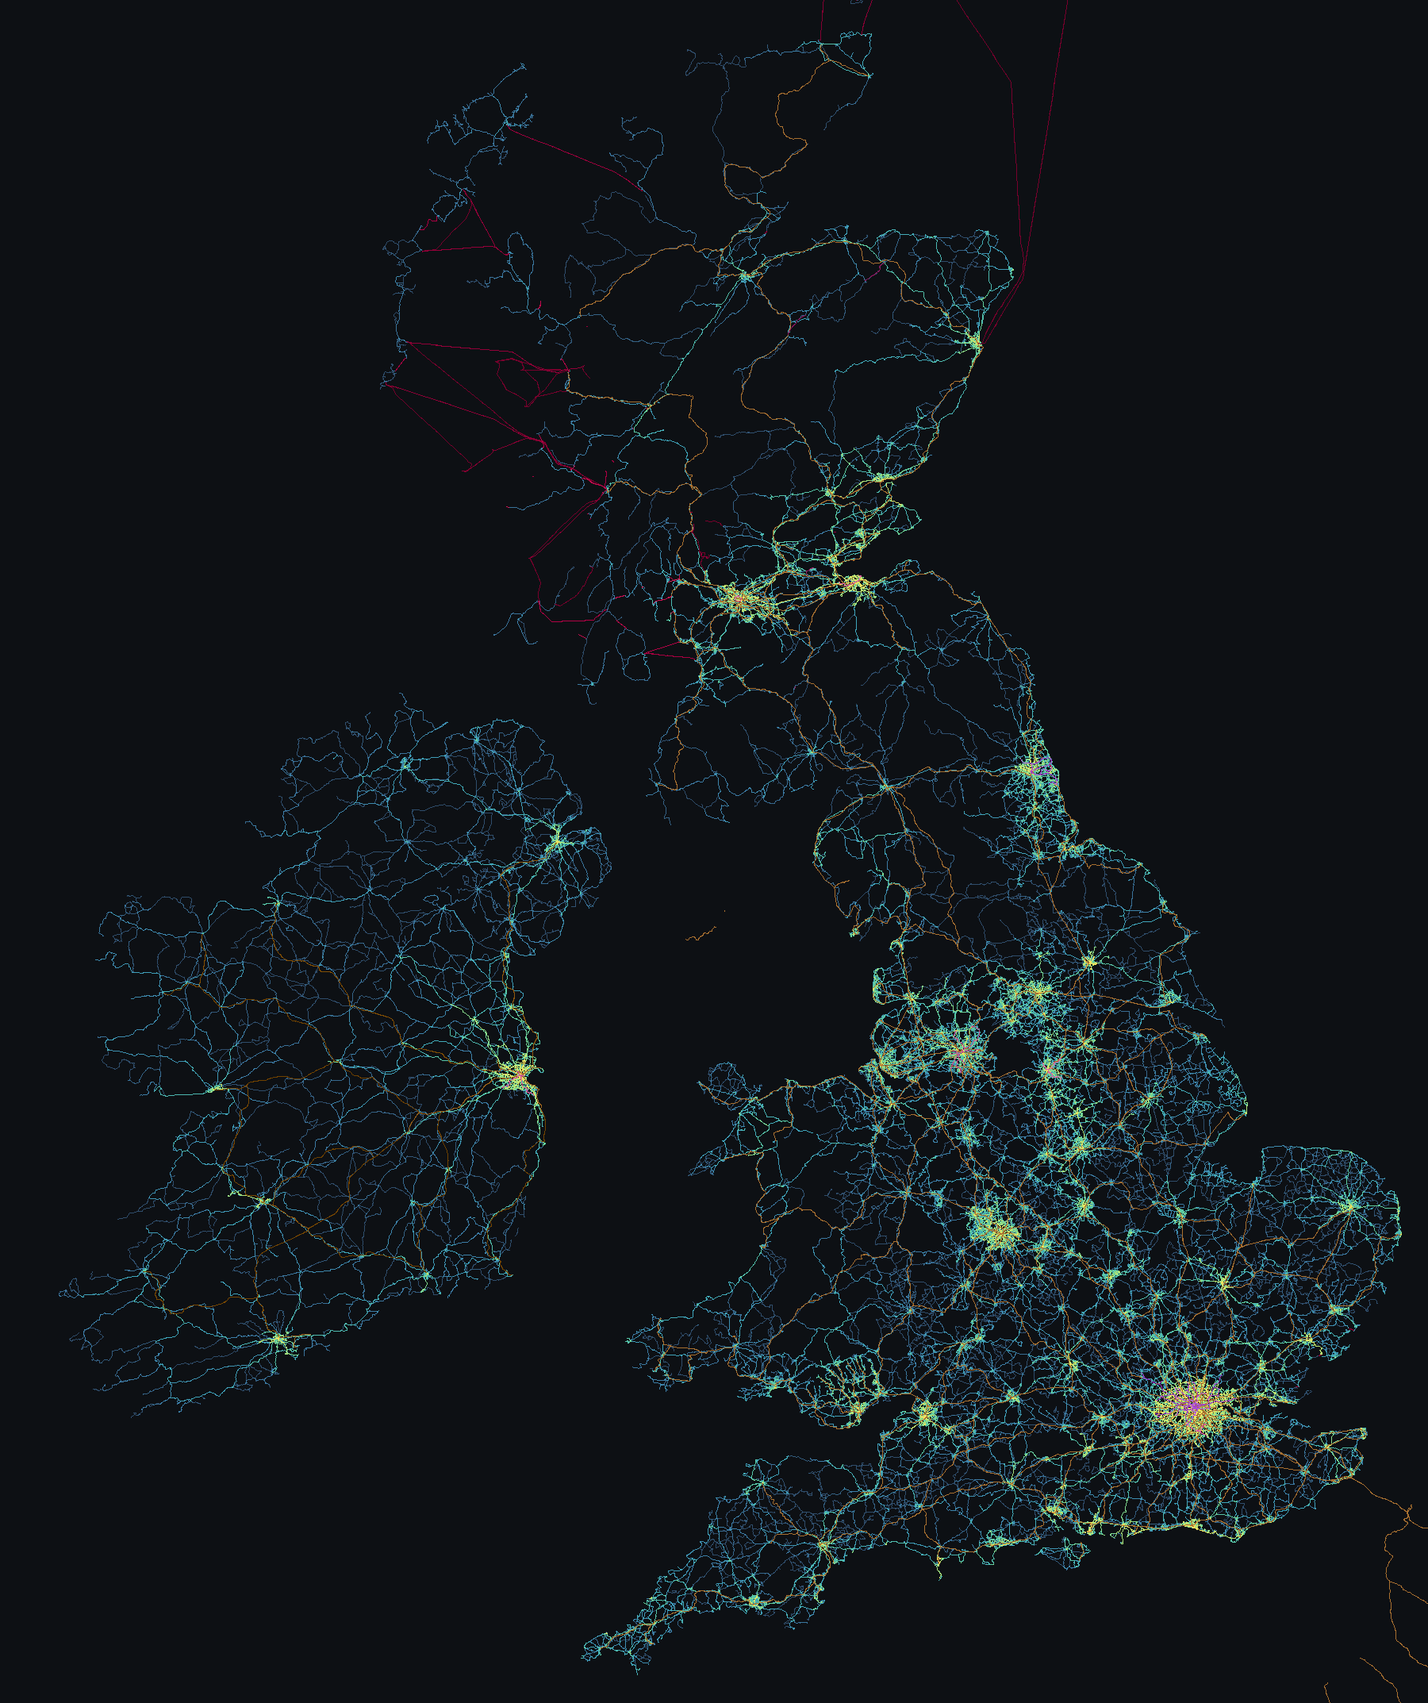
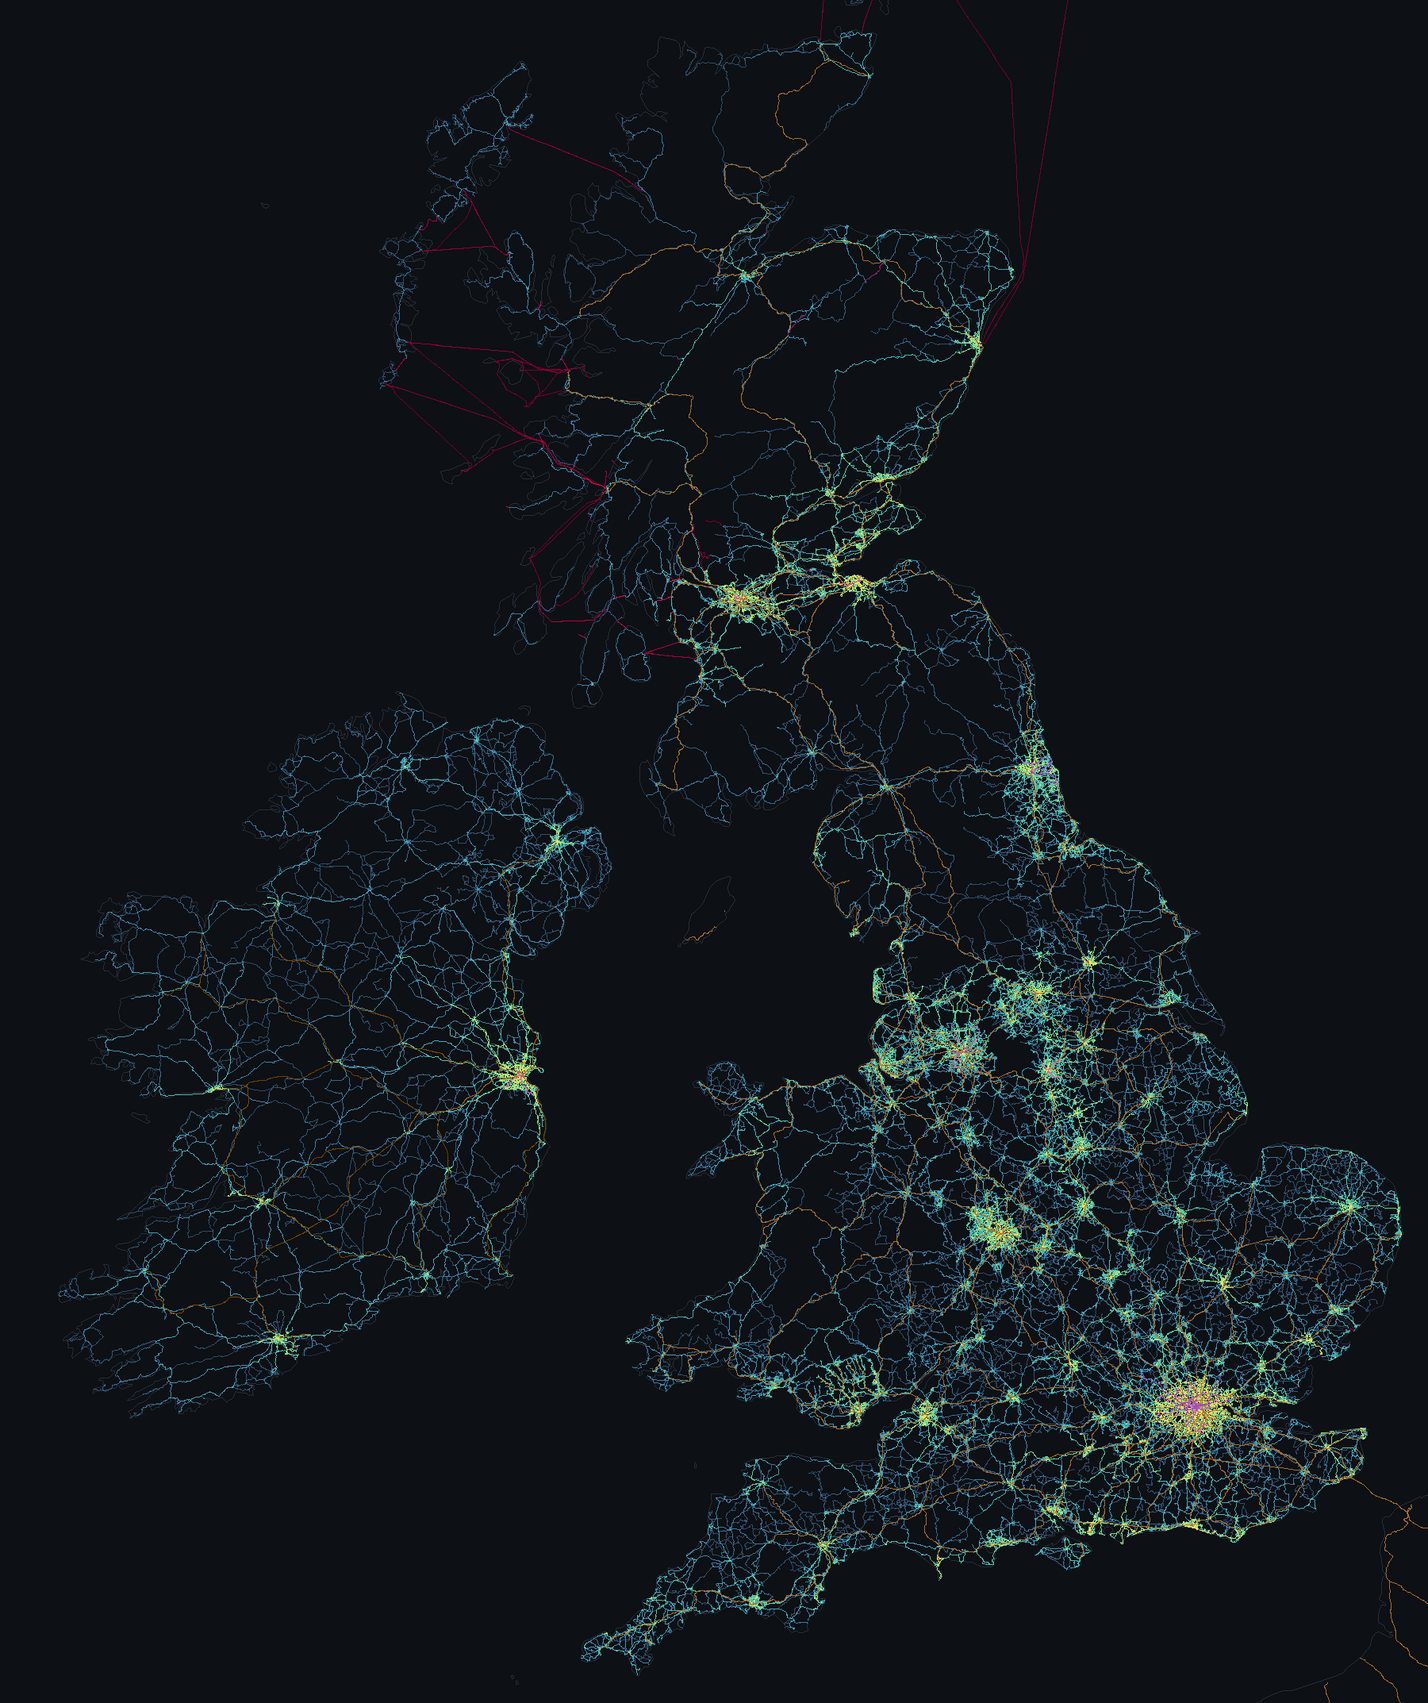
feat(docs): draw the README map on a coastline
Nothing in the picture said where the land was except where the buses
were, so a coast with no service on it — most of Sutherland, most of
Kerry — was not drawn at all, and Cornwall read as ink rather than as a
place.

`draw` takes an `underlay` of longitude/latitude polylines now and
paints them below every feature. Weight 1 against the quietest road's 2,
so a coastline can never take a pixel from a road; features start at two
rather than one for that reason. It is passed in rather than loaded,
because `coverage` reads archives and nothing else, which is what lets
it run wherever an archive does.

`scripts/coastline.py` clips Natural Earth's 1:10m coastline to
`map.toml`'s roam box and writes `docs/coastline.json` — 69 runs, 9,339
points, 144 KB at three decimal places, which is about 70 m against a
pixel that is about 480 m. Clipped to the roam box rather than to the
picture's own frame, so the frame moves without the coastline being
rebuilt. The 10 MB source is cached in `RAW` like every other download
this project makes and the clipped file is committed, so a redraw makes
no request at all and works in an offline clone.

The viewer's own CARTO backdrop was the other option and the numbers
were not what ruled it out: a backdrop only has to match the output
resolution rather than the vector zoom, so 1800 pixels over 13 degrees
is z8 and 120 tiles rather than z11 and 6,675. What ruled it out is that
a raster backdrop puts a licence condition on a PNG that travels without
[…]

diff --git a/scripts/coastline.py b/scripts/coastline.py
@@ -1,0 +1,128 @@
+#!/usr/bin/env python3
+"""Clip the Natural Earth coastline to these islands, for `readme_map.py` to draw.
+
+    python scripts/coastline.py            # docs/coastline.json
+    python scripts/coastline.py --force    # re-fetch the source as well
+
+Two levels of not asking twice. The 10 MB global source is downloaded once into
+`RAW` and reused from there like every other download this project makes, and the
+clipped result is committed, so a redraw of the README map makes no request at
+all and works in an offline clone. Only moving the window or the source needs
+either of them again -- and the window can move freely, because the clip is to
+`map.toml`'s roam box rather than to the picture's own frame.
+
+Natural Earth is public domain, so nothing here owes an attribution. That is most
+of why it is the coastline drawn rather than a basemap's: a raster backdrop from
+a tile service would put a licence condition on a PNG that travels without the
+page it was made for.
+
+1:10m rather than 1:50m because the output is about 480 m to the pixel and 1:50m
+is coarser than that -- the Firth of Clyde closes up and Strangford Lough goes.
+"""
+
+from __future__ import annotations
+
+import argparse
+import json
+import urllib.request
+from pathlib import Path
+
+from wayfare import config, palette
+
+ROOT = Path(__file__).resolve().parent.parent
+OUT = ROOT / "docs" / "coastline.json"
+
+SOURCE = (
+    "https://raw.githubusercontent.com/nvkelso/natural-earth-vector/"
+    "master/geojson/ne_10m_coastline.geojson"
+)
+CACHED = "ne_10m_coastline.geojson"
+
+# Three decimal places is about 70 m of longitude at this latitude, against a
+# pixel that is about 480 m at the width the README map is drawn. Rounding is
+# what takes the file from 162 KB to 144 KB, and consecutive points that collapse
+# onto each other afterwards are dropped rather than drawn as a zero-length line.
+PLACES = 3
+
+
+def fetch(force: bool = False) -> Path:
+    """The global source, downloaded once into RAW and reused after that."""
+    config.RAW.mkdir(parents=True, exist_ok=True)
+    dest = config.RAW / CACHED
+    if dest.exists() and not force:
+        print(f"already have {dest} ({dest.stat().st_size / 1e6:.1f} MB)")
+        return dest
+    print(f"fetching {SOURCE}")
+    with urllib.request.urlopen(SOURCE, timeout=120) as response:  # noqa: S310
+        dest.write_bytes(response.read())
+    print(f"wrote {dest} ({dest.stat().st_size / 1e6:.1f} MB)")
+    return dest
+
+
+def clip(source: Path, box: tuple[float, float, float, float]) -> list[list[list[float]]]:
+    """Every run of coastline that touches the box, as rounded lon/lat pairs.
+
+    A segment is kept when either end is inside, so a coast entering the box is
+    drawn up to the edge rather than starting at it. Whole features are not kept:
+    the lines here are continents, and the one carrying Kerry also carries
+    Portugal.
+    """
+    west, south, east, north = box
+    data = json.loads(source.read_text())
+
+    def inside(point: list[float]) -> bool:
+        return west <= point[0] <= east and south <= point[1] <= north
+
+    runs: list[list[list[float]]] = []
+    for feature in data["features"]:
+        geometry = feature["geometry"]
+        lines = (
+            [geometry["coordinates"]]
+            if geometry["type"] == "LineString"
+            else geometry["coordinates"]
+        )
+        for line in lines:
+            run: list[list[float]] = []
+            for a, b in zip(line, line[1:], strict=False):
+                if inside(a) or inside(b):
+                    if not run:
+                        run.append(a)
+                    run.append(b)
+                elif run:
+                    runs.append(run)
+                    run = []
+            if len(run) > 1:
+                runs.append(run)
+
+    out: list[list[list[float]]] = []
+    for run in runs:
+        rounded: list[list[float]] = []
+        for x, y in run:
+            point = [round(x, PLACES), round(y, PLACES)]
+            if not rounded or rounded[-1] != point:
+                rounded.append(point)
+        if len(rounded) > 1:
+            out.append(rounded)
+    return out
+
+
+def main() -> None:
+    ap = argparse.ArgumentParser(description=__doc__)
+    ap.add_argument(
+        "--force", action="store_true", help="re-fetch the source before clipping"
+    )
+    ap.add_argument("--out", type=Path, default=OUT, help="the .json to write")
+    args = ap.parse_args()
+
+    box = palette.load().roam
+    runs = clip(fetch(args.force), box)
+    args.out.parent.mkdir(parents=True, exist_ok=True)
+    args.out.write_text(json.dumps(runs, separators=(",", ":")) + "\n")
+    points = sum(len(r) for r in runs)
+    size = args.out.stat().st_size / 1024
+    shown = args.out.relative_to(ROOT) if args.out.is_relative_to(ROOT) else args.out
+    print(f"{shown}: {len(runs)} runs, {points} points, {size:.0f} KB over {box}")
+
+
+if __name__ == "__main__":
+    main()

diff --git a/wayfare/coverage.py b/wayfare/coverage.py
@@ -565,13 +565,28 @@ def _layer_ranks() -> dict[str, int]:
 # this does not know, each with 63 levels of trip count under it, which is finer
 # than a six-step ramp can show.
 #
-# Every drawn weight is offset by one, because zero is what an untouched pixel
-# holds and the same channel answers "is anything here at all". Without the offset
-# the quietest road of the bottom layer weighs nothing, and a national render came
-# out 0.2% lit against the greyscale's 5.1% -- the roads were drawn and then
-# counted as background.
+# Every drawn weight is offset, because zero is what an untouched pixel holds and
+# the same channel answers "is anything here at all". Without the offset the
+# quietest road of the bottom layer weighs nothing, and a national render came out
+# 0.2% lit against the greyscale's 5.1% -- the roads were drawn and then counted as
+# background.
 _RANK_STEP = 63
-_MIN_WEIGHT = 1
+_MIN_WEIGHT = 2
+
+# Weight 1 is the underlay's, below every feature and above nothing. A coastline
+# is context and must never take a pixel from a road: the quietest road on the
+# bottom layer weighs `_MIN_WEIGHT`, which is why features start at two.
+_UNDERLAY_WEIGHT = 1
+
+# What the underlay is drawn in. Dim enough to read as ground rather than as
+# something running on it -- a coastline in a road's colour is a coastal service
+# nobody operates. Not in `map.toml`: the viewer has no coastline of its own,
+# because its basemap draws one, so this is a colour no other reader shares.
+_COASTLINE: dict[palette.Theme, tuple[int, int, int]] = {
+    "light": (198, 204, 212),
+    "dark": (38, 46, 58),
+}
+_COASTLINE_GREY = (60, 60, 60)
 
 
 def _mercator(lon: float, lat: float) -> tuple[float, float]:
@@ -771,6 +786,7 @@ def draw(
     out: Path,
     width: int = 1400,
     theme: palette.Theme | None = None,
+    underlay: Sequence[Sequence[tuple[float, float]]] | None = None,
 ) -> float:
     """Rasterise one zoom of some archives into a window. Returns the fraction lit.
 
@@ -790,6 +806,13 @@ def draw(
     road ramp by journeys a day, and each non-road mode off its own ramp. Left
     None, this is the flat greyscale that judging a low zoom wants, where a hue
     would say something about a feature that the question is not about.
+
+    `underlay` is longitude/latitude polylines drawn under everything, for a
+    coastline. Without one the only thing saying where the land is, is where the
+    buses are, so Kerry and Cornwall read as ink rather than as places. It is
+    passed in rather than loaded here because this module reads archives and
+    nothing else -- no network, no data files -- which is what lets it run
+    wherever an archive does.
     """
     # One archive is the ordinary diagnostic call and reads better without a list
     # around it, so both spellings are taken rather than one being the only one.
@@ -804,6 +827,22 @@ def draw(
     height = max(1, round(width * (y1 - y0) / (x1 - x0)))
     pixels = bytearray(width * height * _CHANNELS)
     greys = _layer_greys()
+
+    # First, so every feature composites over it: the weight ordering would hold
+    # either way, but drawing ground after the things standing on it is the kind
+    # of ordering that survives until someone changes a weight.
+    if underlay:
+        ink = _COASTLINE[theme] if theme else _COASTLINE_GREY
+        for line in underlay:
+            points = [
+                (
+                    round((mx - x0) / (x1 - x0) * width),
+                    round((my - y0) / (y1 - y0) * height),
+                )
+                for mx, my in (_mercator(lon, lat) for lon, lat in line)
+            ]
+            for (ax, ay), (bx, by) in zip(points, points[1:], strict=False):
+                _stroke(pixels, width, height, ax, ay, bx, by, ink, _UNDERLAY_WEIGHT)
 
     for archive in archives:
         with archive.open("rb") as fh:

diff --git a/tests/test_coverage.py b/tests/test_coverage.py
@@ -410,6 +410,58 @@ def test_a_theme_paints_the_road_ramp_rather_than_a_grey(tmp_path):
     assert busy == {palette.hex_to_rgb(ramp[-1])}
 
 
+def test_an_underlay_is_drawn_beneath_every_feature(tmp_path):
+    """A coastline is context, and must never take a pixel from a road.
+
+    The two are drawn over each other here on purpose: the road runs along the
+    same latitude as the underlay, so every pixel of one is a pixel of the other,
+    and the question is which the picture ends up carrying. Weight is what
+    decides, and the underlay's is below the quietest road's -- which is why
+    features start at two rather than at one.
+    """
+    path = archive(
+        tmp_path / "a.pmtiles",
+        {0: gzip.compress(_tagged_tile(at(-20.0, 0.0), at(20.0, 0.0), {"trips": 7}))},
+    )
+    window = (-40.0, -40.0, 40.0, 40.0)
+    # Wider than the road, so the overlap answers which wins and the overhang
+    # answers whether the underlay was drawn at all. One or the other alone
+    # passes for a `draw` that ignored the underlay entirely.
+    line = [[(-30.0, 0.0), (30.0, 0.0)]]
+
+    out = tmp_path / "both.png"
+    coverage.draw(path, 0, window, out, width=100, theme="dark", underlay=line)
+    _w, _h, both = _rgb(out)
+
+    ink = palette.load()
+    road = palette.hex_to_rgb(ink.road_ramp["dark"][0])
+    coast = coverage._COASTLINE["dark"]
+    drawn = {p for p in both if p != (13, 16, 20)}
+    # The road won every pixel the two share, and the coastline is still drawn
+    # where the road is not -- it runs the width of the window and the road does
+    # not reach the edges.
+    assert road in drawn
+    assert coast in drawn
+
+
+def test_an_underlay_needs_no_archive_to_be_drawn(tmp_path):
+    """The coastline is passed in as longitude and latitude, so it is projected
+    here rather than read out of a tile. Nothing about it comes from an archive."""
+    empty = archive(tmp_path / "empty.pmtiles", {})
+    out = tmp_path / "coast.png"
+    coverage.draw(
+        empty,
+        0,
+        (-40.0, -40.0, 40.0, 40.0),
+        out,
+        width=100,
+        theme="dark",
+        underlay=[[(-30.0, 10.0), (30.0, 10.0)]],
+    )
+    lit, _size = _lit(out, background=(13, 16, 20))
+    assert lit > 50
+
+
 def test_several_archives_composite_into_one_picture(tmp_path):
     """These islands are three archives and the viewer draws them onto one map."""
     west = archive(

diff --git a/scripts/readme_map.py b/scripts/readme_map.py
@@ -19,6 +19,7 @@ composite over each other and report a coverage the archives do not have.
 from __future__ import annotations
 
 import argparse
+import json
 import sys
 from pathlib import Path
 
@@ -26,6 +27,13 @@ from wayfare import config, coverage, palette
 
 ROOT = Path(__file__).resolve().parent.parent
 OUT = ROOT / "docs" / "map.png"
+
+# Clipped from Natural Earth by `scripts/coastline.py` and committed, so a redraw
+# needs no network and works in an offline clone. Drawn under everything: without
+# it the only thing saying where the land is, is where the buses are, and a coast
+# with no service on it -- most of Sutherland, most of Kerry -- is not drawn at
+# all. Optional, because the map is still a map without it.
+COASTLINE = ROOT / "docs" / "coastline.json"
 
 # Mainland Great Britain and Ireland. Narrower than `art.ISLES`, which is the box
 # the archives actually cover: north stops at 58.8, above Dunnet Head at 58.67 and
@@ -99,7 +107,25 @@ def main() -> None:
             )
 
     args.out.parent.mkdir(parents=True, exist_ok=True)
-    lit = coverage.draw(archives, args.zoom, WINDOW, args.out, args.width, theme=args.theme)
+    underlay = None
+    if COASTLINE.exists():
+        underlay = json.loads(COASTLINE.read_text())
+    else:
+        print(
+            f"warning: no {COASTLINE.name}, so the map draws with nothing under it. "
+            "Run `python scripts/coastline.py` to make one.",
+            file=sys.stderr,
+        )
+
+    lit = coverage.draw(
+        archives,
+        args.zoom,
+        WINDOW,
+        args.out,
+        args.width,
+        theme=args.theme,
+        underlay=underlay,
+    )
     # `--out` can be anywhere, so the path is only shortened when it is under the
     # repository. `relative_to` raises rather than falling back on its own.
     shown = args.out.relative_to(ROOT) if args.out.is_relative_to(ROOT) else args.out

diff --git a/tests/test_palette.py b/tests/test_palette.py
@@ -269,6 +269,31 @@ def test_the_roam_box_is_the_one_art_warns_against():
     assert (geometry.ISLES.max_lon, geometry.ISLES.max_lat) == (east, north)
 
 
+def test_the_committed_coastline_covers_the_roam_box():
+    """`docs/coastline.json` is clipped to `map.toml`'s roam box rather than to
+    the README map's own frame, which is what lets the frame move without the
+    coastline being regenerated. A file clipped to something narrower would draw
+    a coast that stops partway for no reason the picture can show."""
+    coast = json.loads((ROOT / "docs" / "coastline.json").read_text())
+    west, south, east, north = palette.load().roam
+    assert coast, "no coastline runs"
+    xs = [x for run in coast for x, _y in run]
+    ys = [y for run in coast for _x, y in run]
+    # Every point inside the box, with the margin a kept segment's far end can
+    # reach: a segment is kept when either end is inside, so one end may sit out.
+    assert min(xs) > west - 2 and max(xs) < east + 2
+    assert min(ys) > south - 2 and max(ys) < north + 2
+    # And it holds the land in that box rather than a corner of it. Not the box's
+    # own edges: there is open Atlantic between -11.5 and Ireland's west coast, so
+    # a coastline reaching the western edge would be a coastline of something that
+    # is not there. These are the four extremes of land instead.
+    assert min(xs) < -10.0, "no Kerry"
+    assert max(xs) > 1.5, "no East Anglia"
+    assert min(ys) < 50.2, "no Cornwall"
+    assert max(ys) > 60.5, "no Shetland"
+    assert all(len(run) > 1 for run in coast), "a one-point run draws nothing"
+
+
 def test_both_pages_take_their_shared_values_from_the_generated_file():
     """`art.html` held a bare `"source-layer": "bus"` and its own copy of the
     archive fallback, neither behind a constant."""

diff --git a/docs/pipeline.md b/docs/pipeline.md
@@ -814,6 +814,25 @@ reaches -10.5, so Kerry sets the western edge and the Hebrides fall inside it. T
 that leave the window are drawn up to its edge, because `draw` clips per pixel rather than
 per line.
 
+**The coastline under it is a committed file, not a basemap.** `draw` takes an `underlay`
+of longitude/latitude polylines and paints them below every feature, at a weight of 1
+against the quietest road's 2. Without one the only thing saying where the land is, is
+where the buses are, so a coast with no service on it — most of Sutherland, most of Kerry —
+is not drawn at all. `scripts/coastline.py` clips Natural Earth's 1:10m coastline to
+`map.toml`'s roam box and writes `docs/coastline.json`: 69 runs, 9,339 points, 144 KB at
+three decimal places, which is about 70 m against a pixel that is about 480 m. Clipped to
+the roam box rather than to the picture's frame, so the frame moves without the coastline
+being rebuilt. The 10 MB source is cached in `RAW` like every other download and the
+clipped file is committed, so a redraw makes no request.
+
+The alternative was the viewer's own CARTO backdrop, and the numbers were not the
+objection: the backdrop only has to match the output resolution rather than the vector
+zoom, so 1800 pixels over 13 degrees is z8 and 120 tiles rather than z11 and 6,675. What
+ruled it out is that a raster backdrop puts a licence condition on a PNG that travels
+without the page it was made for, and that baking a static asset out of a free tile service
+is not what the service is provisioned for. Natural Earth is public domain and owes
+nothing.
+
 **A licence condition travels with the data, not with the page.** The credit is derived
 from `config.Feed` and written into the archive's tileset metadata, so a copied archive
 keeps it. `publish.contents` reads off the database which of `road`, `operator` and `track`

diff --git a/README.md b/README.md
@@ -57,6 +57,13 @@ The shape of `wayfare/map.toml` is stated in `wayfare/map.schema.json` and wired
 typed and `taplo lint` fails CI on the same thing. Nothing about a wrong shape there is an
 error at run time: a mistyped layer name draws an empty layer without a word.
 
+`scripts/coastline.py` clips the Natural Earth 1:10m coastline to the box the viewer
+roams over and commits it as `docs/coastline.json`, 144 KB, which the map above is
+drawn on top of. The 10 MB source is downloaded once into `RAW` and reused from there,
+and the clipped file is committed, so a redraw makes no request at all. Natural Earth
+is public domain, so unlike a tile service's backdrop it puts no licence condition on
+a PNG that travels without the page it was made for.
+
 `scripts/readme_map.py` draws the picture above out of the published archives. It has
 no `--check` and CI cannot run it: every data root is gitignored and a national build
 is a match run of a day or two, so the PNG is committed and the script is run by hand
